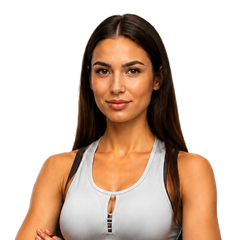
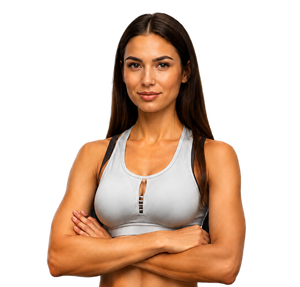
Переделана вкладка тренировок + новая иконка приложения
- Вкладка «Тренировки» полностью переделана в формат дашборда:
  герой-карточка (частота/кольцо минут/калории), прогресс по типам
  нагрузки (Сила/Кардио/Растяжка), «План на сегодня» с выделением
  рекомендуемого дня, сетка программ 2×1, карточка совета тренера.
- Добавлена новая фотография тренера (docs/img/trainer.png) с
  прозрачным фоном для карточки «Совет тренера».
- Обновлена иконка приложения (1024×1024) — исправляет иконку в
  всплывающем окне уведомления на iPhone.

Claude-Session: https://claude.ai/code/session_01UYbmgsXtXN39W69CKm24QF

diff --git a/docs/index.html b/docs/index.html
@@ -1380,7 +1380,7 @@ var workoutLocal=null;
 function initWorkoutLocal(){
   if(workoutLocal) return;
   workoutLocal={phase:state.workoutPlan?'view':'setup',goal:'похудение',focus:['ягодицы'],days:3,place:'дом',loading:false,variants:[],
-    wtab:'calendar',dayDetail:null,calSel:todayStr(),wedit:null,nagged:false};
+    wtab:'calendar',dayDetail:null,calSel:todayStr(),wedit:null,nagged:false,showCal:false,showProg:false};
 }
 function daySummary(ds,done,activities,wDays,weightKg,todayS){
   var a=ds.split('-').map(Number); var dw=dow(a[0],a[1],a[2]); var label=a[2]+' '+RU_MON[a[1]-1]+', '+RU_WD[dw];
@@ -1397,33 +1397,195 @@ function daySummary(ds,done,activities,wDays,weightKg,todayS){
   if(isPast&&wDays.includes(dw)) return {label:label,missed:true,text:'В этот день ты '+SEAL_JABS[a[2]%SEAL_JABS.length]};
   return {label:label,text:'В этот день ничего не записано.'};
 }
+/* ===== WORKOUT DASHBOARD ===== */
+function wDayType(day){var s=((day.title||'')+(day.ex||[]).join(' ')).toLowerCase().replace(/ё/g,'е');if(/кардио|бег\b|ходьб|прыж|скакалк|берпи|джампинг|интервал/.test(s))return'cardio';if(/растяжк|стретч|йога|пилатес|мобильн/.test(s))return'stretch';return'strength';}
+function wDayEmoji(day){var m=musclesForDay(day.ex||[]);if(m.includes('ягодицы'))return'🍑';if(m.includes('грудь'))return'💪';if(m.includes('спина'))return'🏋';if(m.includes('пресс'))return'⚡';var t=wDayType(day);if(t==='cardio')return'🏃';if(t==='stretch')return'🧘';return'💪';}
+function wDayMins(day){return Math.max(25,Math.min(60,10+(day.ex||[]).length*5));}
+function wDayKcal(day,wkg){return Math.round((wDayType(day)==='cardio'?8:5.5)*(wkg||60)*wDayMins(day)/60);}
+function todayPlanDayIdx(plan,wDays){if(!plan||!plan.days||!plan.days.length||!wDays||!wDays.length)return-1;var s=wDays.slice().sort(function(a,b){return a-b;});var p=s.indexOf(dowOf(new Date()));return p<0?-1:p%plan.days.length;}
+function weekWorkoutCount(workouts){var ws=weekStart();var today=new Date();today.setHours(0,0,0,0);return(workouts||[]).filter(function(w){var d=new Date(w.date);d.setHours(0,0,0,0);return d>=ws&&d<=today;}).length;}
+function workoutRingSVG(mins,maxMins,sz,sw){
+  sz=sz||134;sw=sw||14;maxMins=maxMins||60;
+  var pct=maxMins>0?Math.min(Math.max(mins/maxMins,0),1):0;
+  var rx=(sz-sw)/2,ry=rx*0.92;var visH=ry+sw;
+  var pad=22;var bW=sz+pad*2,bH=visH+pad*2;
+  var cx=pad+sz/2,cy=pad+ry+sw/2;
+  function ptAt(deg){var r=deg*Math.PI/180;return[cx+rx*Math.cos(r),cy+ry*Math.sin(r)];}
+  var p0=ptAt(180),p1=ptAt(360);
+  var d='M '+p0[0].toFixed(2)+' '+p0[1].toFixed(2)+' A '+rx.toFixed(2)+' '+ry.toFixed(2)+' 0 1 1 '+p1[0].toFixed(2)+' '+p1[1].toFixed(2);
+  var totalLen=0,prev=p0;
+  for(var i=1;i<=180;i++){var t=180+i;var p=ptAt(t);totalLen+=Math.hypot(p[0]-prev[0],p[1]-prev[1]);prev=p;}
+  var fLen=totalLen*pct;var gid='wrg'+sz,fid='wrf'+sz;
+  var nSz=Math.round(sz*(String(Math.round(mins)).length>=3?0.17:0.21));
+  return '<div class="ringWrap" style="width:'+sz+'px;height:'+visH+'px;margin:0 2px">'+
+    '<svg width="'+bW+'" height="'+bH+'" style="position:absolute;left:'+(-pad)+'px;top:'+(-pad)+'px">'+
+    '<defs><linearGradient id="'+gid+'" gradientUnits="userSpaceOnUse" x1="'+p0[0].toFixed(1)+'" y1="'+p0[1].toFixed(1)+'" x2="'+p1[0].toFixed(1)+'" y2="'+p1[1].toFixed(1)+'">'+
+    '<stop offset="0%" stop-color="#8B2FFF"/><stop offset="50%" stop-color="#EBD4FF"/><stop offset="100%" stop-color="#B968FF"/>'+
+    '</linearGradient><filter id="'+fid+'" x="-120%" y="-120%" width="340%" height="340%">'+
+    '<feGaussianBlur in="SourceGraphic" stdDeviation="11" result="wide"/><feGaussianBlur in="SourceGraphic" stdDeviation="4" result="mid"/>'+
+    '<feMerge><feMergeNode in="wide"/><feMergeNode in="mid"/><feMergeNode in="SourceGraphic"/></feMerge></filter></defs>'+
+    '<path d="'+d+'" fill="none" stroke="#262838" stroke-width="'+sw+'" stroke-linecap="round"/>'+
+    (pct>0?'<path class="ringGlow" d="'+d+'" fill="none" stroke="url(#'+gid+')" stroke-width="'+(sw+7)+'" stroke-linecap="round" stroke-dasharray="'+fLen.toFixed(1)+' '+(totalLen*2).toFixed(1)+'" filter="url(#'+fid+')" opacity="0.95"/>'+
+    '<path d="'+d+'" fill="none" stroke="url(#'+gid+')" stroke-width="'+sw+'" stroke-linecap="round" stroke-dasharray="'+fLen.toFixed(1)+' '+(totalLen*2).toFixed(1)+'"/>':'')+
+    '</svg>'+
+    '<div class="ringCenter" style="top:auto;bottom:0;height:'+Math.round(visH*0.78)+'px">'+
+    '<div style="font-size:'+nSz+'px;font-weight:800;color:#fff;letter-spacing:-1px;line-height:1">'+Math.round(mins)+'</div>'+
+    '<div style="font-size:'+Math.round(sz*0.07)+'px;color:rgba(255,255,255,.65);margin-top:3px;font-weight:700;line-height:1">мин</div>'+
+    '</div></div>';
+}
+function workoutDashboard(){
+  var plan=state.workoutPlan;var wl=workoutLocal;var wDays=state.workoutDays||[];
+  var wkg=latestWeight(state);var todayS=todayStr();var todayDow=dowOf(new Date());
+  var isWDay=wDays.includes(todayDow);
+  var didToday=(state.workouts||[]).some(function(w){return w.date===todayS;});
+  var burnedKcal=burnedToday(state,todayS,wkg);
+  var weekDone=weekWorkoutCount(state.workouts);var weekTarget=Math.max(wDays.length,1);
+  var coachMsg=workoutCoachMsg(state);
+  var tdIdx=todayPlanDayIdx(plan,wDays);var todayDay=tdIdx>=0&&plan&&plan.days?plan.days[tdIdx]:null;
+  var ringMins=0;
+  if(didToday){(state.workouts||[]).filter(function(w){return w.date===todayS;}).forEach(function(w){ringMins+=Math.max(20,Math.min(60,10+((w.sets||[]).length)*2.5));});ringMins=Math.round(Math.min(ringMins,90));}
+  else if(todayDay){ringMins=wDayMins(todayDay);}
+  var dots='<div style="display:flex;gap:5px;margin-top:8px">';
+  for(var i=0;i<Math.min(weekTarget,6);i++) dots+='<div style="width:10px;height:10px;border-radius:5px;background:'+(i<weekDone?'#8B5CF6':i===weekDone?'rgba(139,92,246,0.3)':'rgba(255,255,255,0.12)')+'"></div>';
+  dots+='</div>';
+  var hero='<div style="background:linear-gradient(145deg,#1e1640,#251c4a);border:1px solid rgba(139,92,246,0.3);border-radius:24px;padding:18px 14px 16px;margin-bottom:12px">'+
+    '<div style="display:flex;align-items:flex-start;justify-content:space-between;gap:4px">'+
+    '<div style="flex:0 0 auto;min-width:72px"><div style="font-size:20px;margin-bottom:4px">🏋</div>'+
+      '<div style="display:flex;align-items:baseline;gap:2px"><span style="font-size:30px;font-weight:900;color:#fff;line-height:1">'+weekTarget+'</span><span style="font-size:12px;color:rgba(255,255,255,0.55);font-weight:600"> / нед</span></div>'+
+      '<div style="color:rgba(255,255,255,0.45);font-size:11px;font-weight:600;margin-top:1px">неделя</div>'+dots+'</div>'+
+    '<div style="flex:1;display:flex;flex-direction:column;align-items:center;padding:0 2px">'+workoutRingSVG(ringMins,60,130,14)+
+      '<div style="color:rgba(255,255,255,0.45);font-size:10px;font-weight:600;letter-spacing:0.4px;margin-top:1px">тренировка</div>'+
+      '<div style="display:inline-block;background:rgba(139,92,246,0.3);color:#c4b5fd;font-size:10px;font-weight:700;padding:2px 10px;border-radius:999px;margin-top:4px">'+(didToday?'готово 💜':isWDay?'сегодня':'по плану')+'</div>'+
+    '</div>'+
+    '<div style="flex:0 0 auto;min-width:72px;text-align:right"><div style="font-size:20px;margin-bottom:4px">🔥</div>'+
+      '<div style="font-size:30px;font-weight:900;color:#fff;line-height:1">'+burnedKcal+'</div>'+
+      '<div style="color:rgba(255,255,255,0.45);font-size:11px;font-weight:600;margin-top:1px">ккал</div>'+
+      (burnedKcal>0?'<div style="color:#34d399;font-size:10px;font-weight:700;margin-top:4px">+'+burnedKcal+' ккал<br>к цели 🎯</div>':'<div style="color:rgba(255,255,255,0.22);font-size:10px;margin-top:6px">нет<br>нагрузки</div>')+
+    '</div></div></div>';
+  var coachBd=coachMsg.type==='warn'?'rgba(239,68,68,0.35)':coachMsg.type==='go'?'rgba(139,92,246,0.5)':'rgba(255,255,255,0.1)';
+  var coachBg=coachMsg.type==='warn'?'rgba(239,68,68,0.07)':coachMsg.type==='go'?'rgba(139,92,246,0.08)':'rgba(255,255,255,0.03)';
+  var coachCard='<div style="background:'+coachBg+';border:1px solid '+coachBd+';border-radius:20px;padding:14px;margin-bottom:12px;display:flex;align-items:center;gap:12px">'+
+    '<div style="width:38px;height:38px;border-radius:19px;background:rgba(139,92,246,0.2);display:flex;align-items:center;justify-content:center;flex-shrink:0;font-size:18px">💜</div>'+
+    '<div style="flex:1;min-width:0"><div style="color:#a78bfa;font-size:10px;font-weight:700;margin-bottom:3px;text-transform:uppercase;letter-spacing:0.5px">Совет тренера</div>'+
+    '<div style="font-size:13px;line-height:18px;color:rgba(255,255,255,0.85)">'+esc(coachMsg.text)+'</div></div>'+
+    '<img src="img/trainer.png" style="width:50px;height:50px;border-radius:25px;object-fit:cover;object-position:center top;border:2px solid rgba(139,92,246,0.4);flex-shrink:0" onerror="this.style.display=\'none\'">'+
+  '</div>';
+  var calToggle='<button style="width:100%;padding:11px 16px;border-radius:16px;border:1px solid rgba(255,255,255,0.08);background:rgba(255,255,255,0.03);color:rgba(255,255,255,0.5);font-size:12px;font-weight:600;display:flex;align-items:center;gap:8px;margin-bottom:8px" onclick="workoutLocal.showCal=!workoutLocal.showCal;render()">'+
+    '<span>📅 История тренировок</span><span style="margin-left:auto">'+(wl.showCal?'▲':'▼')+'</span></button>';
+  var calSection=wl.showCal?workoutCalendarSection():'';
+  return '<div class="body-pad">'+
+    '<div style="text-align:center;padding:10px 0 14px"><div style="font-size:22px;font-weight:900;color:#fff">Тренировки</div>'+
+    '<div style="font-size:13px;color:#8B5CF6;font-weight:700;margin-top:2px">Сегодня</div></div>'+
+    hero+workoutTypeProgressRow(plan)+workoutTodayPlanSection(plan,wDays,wkg,tdIdx)+
+    workoutProgramsSection(plan)+coachCard+workoutActivitySection()+calToggle+calSection+
+  '</div>';
+}
+function workoutTypeProgressRow(plan){
+  if(!plan||!plan.days||!plan.days.length) return'';
+  var sDays=plan.days.filter(function(d){return wDayType(d)==='strength';}).length;
+  var cDays=plan.days.filter(function(d){return wDayType(d)==='cardio';}).length;
+  var xDays=plan.days.filter(function(d){return wDayType(d)==='stretch';}).length;
+  var wk=todayStr().slice(0,7);
+  var monthWks=(state.workouts||[]).filter(function(w){return(w.date||'').startsWith(wk);});
+  var sDone=0,cDone=0,xDone=0;
+  monthWks.forEach(function(w){var day=(plan.days||[]).find(function(d){return d.title===w.title;})||plan.days[0];var t=day?wDayType(day):'strength';if(t==='strength')sDone++;else if(t==='cardio')cDone++;else xDone++;});
+  var cols=[];
+  if(sDays>0||(!cDays&&!xDays))cols.push({ico:'💪',label:'Сила',done:sDone,total:Math.max(sDays*4,plan.days.length)});
+  if(cDays>0)cols.push({ico:'💜',label:'Кардио',done:cDone,total:Math.max(cDays*4,1)});
+  if(xDays>0)cols.push({ico:'🧘',label:'Растяжка',done:xDone,total:Math.max(xDays*4,1)});
+  if(!cols.length)cols=[{ico:'💪',label:'Сила',done:sDone,total:Math.max(plan.days.length*4,4)}];
+  var items=cols.map(function(c){var pct=Math.min(1,c.total>0?c.done/c.total:0);
+    return'<div style="flex:1;min-width:0">'+
+      '<div style="display:flex;align-items:center;gap:5px;margin-bottom:5px"><span style="font-size:15px">'+c.ico+'</span><span style="font-size:12px;font-weight:700;color:rgba(255,255,255,0.8)">'+c.label+'</span></div>'+
+      '<div style="height:4px;border-radius:2px;background:rgba(255,255,255,0.1);overflow:hidden;margin-bottom:4px"><div style="height:100%;width:'+Math.round(pct*100)+'%;background:linear-gradient(90deg,#7C3AED,#B968FF);border-radius:2px"></div></div>'+
+      '<div style="font-size:10px;color:rgba(255,255,255,0.4);font-weight:600">'+c.done+' / '+c.total+' тренировок</div></div>';
+  }).join('');
+  return'<div style="background:rgba(255,255,255,0.04);border:1px solid rgba(255,255,255,0.08);border-radius:20px;padding:14px;margin-bottom:12px;display:flex;gap:14px">'+items+'</div>';
+}
+function workoutTodayPlanSection(plan,wDays,wkg,tdIdx){
+  if(!plan||!plan.days||!plan.days.length){
+    return'<div style="margin-bottom:12px"><div style="font-size:16px;font-weight:800;color:#fff;margin-bottom:10px">План на сегодня</div>'+
+      '<div style="background:rgba(139,92,246,0.07);border:1px dashed rgba(139,92,246,0.3);border-radius:16px;padding:20px;text-align:center">'+
+      '<div style="font-size:13px;color:rgba(255,255,255,0.5);margin-bottom:8px">Нет активной программы тренировок</div>'+
+      '<button class="btn" style="font-size:13px" onclick="workoutLocal.phase=\'setup\';render()">Подобрать программу 💜</button></div></div>';
+  }
+  var h='<div style="margin-bottom:12px">'+
+    '<div style="display:flex;align-items:center;justify-content:space-between;margin-bottom:10px">'+
+    '<div style="font-size:16px;font-weight:800;color:#fff">План на сегодня</div>'+
+    '<button onclick="workoutStartEdit()" style="display:flex;align-items:center;gap:4px;border:1px solid rgba(139,92,246,0.4);border-radius:999px;padding:5px 10px;background:rgba(139,92,246,0.1);color:#a78bfa;font-size:11px;font-weight:700"><span>📅</span> Изменить план</button></div>';
+  plan.days.forEach(function(day,di){
+    var isToday=di===tdIdx;
+    var mins=wDayMins(day);var kcal=wDayKcal(day,wkg);var emoji=wDayEmoji(day);
+    var bg=isToday?'rgba(139,92,246,0.15)':'rgba(255,255,255,0.03)';
+    var bd=isToday?'1px solid rgba(139,92,246,0.5)':'1px solid rgba(255,255,255,0.06)';
+    var arrBg=isToday?'#7C3AED':'rgba(255,255,255,0.1)';
+    h+='<button style="width:100%;background:'+bg+';border:'+bd+';border-radius:16px;padding:12px;margin-bottom:8px;display:flex;align-items:center;gap:10px;text-align:left" onclick="workoutLocal.dayDetail='+di+';render()">'+
+      '<div style="width:50px;height:50px;border-radius:14px;background:linear-gradient(135deg,rgba(139,92,246,0.4),rgba(109,40,217,0.6));display:flex;align-items:center;justify-content:center;font-size:22px;flex-shrink:0">'+emoji+'</div>'+
+      '<div style="flex:1;min-width:0"><div style="font-size:14px;font-weight:800;color:#fff;margin-bottom:3px">'+esc(tidyDayTitle(day.title,di))+'</div>'+
+      '<div style="display:flex;align-items:center;gap:8px"><span style="font-size:11px;color:rgba(255,255,255,0.45)">⏱ '+mins+' мин</span><span style="font-size:11px;color:rgba(255,255,255,0.45)">🔥 ~'+kcal+' ккал</span></div>'+
+      (isToday?'<div style="display:inline-block;background:rgba(139,92,246,0.25);color:#c4b5fd;font-size:10px;font-weight:700;padding:2px 8px;border-radius:999px;margin-top:4px">Рекомендуется сегодня</div>':'')+
+      '</div><div style="width:30px;height:30px;border-radius:15px;background:'+arrBg+';display:flex;align-items:center;justify-content:center;flex-shrink:0"><span style="color:#fff;font-weight:800;font-size:13px">→</span></div>'+
+    '</button>';
+  });
+  h+='<button class="btn mt4" style="width:100%" onclick="workoutOpenLog('+(tdIdx>=0?tdIdx:0)+')">💪 Записать тренировку</button></div>';
+  return h;
+}
+function workoutProgramsSection(plan){
+  if(!plan)return'';
+  var wDays=state.workoutDays||[];var since=state.workoutDaysSince;var now=new Date();
+  var totalDone=(state.workouts||[]).length;var totalExpected=0;
+  if(since){var s=new Date(since);s.setHours(0,0,0,0);var days=Math.max(0,Math.round((now-s)/86400000));totalExpected=Math.round(days/7*Math.max(wDays.length,1));}
+  var pct=totalExpected>0?Math.min(1,totalDone/totalExpected):0;
+  var planName=plan.name||'Моя программа';
+  var planIcon=/тонус|поддерж/i.test(planName)?'🌿':/набор|масс/i.test(planName)?'💪':/кардио|выносл/i.test(planName)?'🏃':'🏆';
+  var weeks=plan.days?Math.ceil(plan.days.length*4/Math.max(wDays.length,1)):8;
+  var level=totalDone>10?'3 ур.':totalDone>4?'2 ур.':'1 ур.';
+  return'<div style="margin-bottom:12px"><div style="font-size:16px;font-weight:800;color:#fff;margin-bottom:10px">Программы</div>'+
+    '<div style="display:flex;gap:8px">'+
+    '<div style="flex:1;background:rgba(255,255,255,0.04);border:1px solid rgba(255,255,255,0.08);border-radius:16px;padding:12px;cursor:pointer" onclick="workoutLocal.showProg=!workoutLocal.showProg;render()">'+
+      '<div style="display:flex;align-items:center;justify-content:space-between;margin-bottom:8px">'+
+      '<div style="width:34px;height:34px;border-radius:10px;background:rgba(139,92,246,0.2);display:flex;align-items:center;justify-content:center;font-size:17px">'+planIcon+'</div>'+
+      '<span style="color:rgba(255,255,255,0.4);font-size:16px">›</span></div>'+
+      '<div style="font-size:13px;font-weight:800;color:#fff;margin-bottom:2px">'+esc(planName)+'</div>'+
+      '<div style="font-size:11px;color:rgba(255,255,255,0.4);margin-bottom:8px">'+weeks+' нед • '+level+'</div>'+
+      '<div style="height:4px;border-radius:2px;background:rgba(255,255,255,0.1);overflow:hidden;margin-bottom:3px"><div style="height:100%;width:'+Math.round(pct*100)+'%;background:linear-gradient(90deg,#7C3AED,#B968FF)"></div></div>'+
+      '<div style="color:#8B5CF6;font-size:10px;font-weight:700;text-align:right">'+Math.round(pct*100)+'%</div>'+
+    '</div>'+
+    '<div style="flex:1;background:rgba(255,255,255,0.02);border:1px dashed rgba(255,255,255,0.08);border-radius:16px;padding:12px;display:flex;flex-direction:column;align-items:center;justify-content:center;gap:6px;cursor:pointer" onclick="workoutNewProgram()">'+
+      '<div style="width:34px;height:34px;border-radius:10px;background:rgba(255,255,255,0.06);display:flex;align-items:center;justify-content:center;font-size:18px">✨</div>'+
+      '<div style="font-size:11px;font-weight:700;color:rgba(255,255,255,0.35);text-align:center">Новая программа</div></div></div>'+
+    (workoutLocal.showProg?'<div class="card mt8">'+workoutProgram()+'</div>':'')+
+  '</div>';
+}
+function workoutCalendarSection(){
+  var wl=workoutLocal;var wDays=state.workoutDays||[];var weightKg=latestWeight(state);
+  var done=state.workouts;var burnedTotal=burnedToday(state,todayStr(),weightKg);
+  var activityDates=new Set((state.activities||[]).map(function(a){return a.date;}));
+  var h='<div class="card">'+workoutCalendarGrid(done,wDays,state.workoutDaysSince,activityDates,burnedTotal)+'</div>';
+  var calDay=daySummary(wl.calSel,done,state.activities||[],wDays,weightKg,todayStr());
+  h+='<div class="card"'+(calDay.missed?' style="border-color:var(--warn)"':'')+'><div style="display:flex;justify-content:space-between;align-items:center"><span style="color:var(--primary);font-weight:800">'+esc(calDay.label)+'</span>'+
+    (calDay.workout?'<span><button style="padding:8px" onclick="workoutEditDone(\''+calDay.workout.id+'\')">✏️</button><button style="padding:8px;color:var(--danger);font-weight:800" onclick="workoutDelDone(\''+calDay.workout.id+'\')">✕</button></span>':'')+'</div>'+
+    '<div style="font-size:14px;line-height:20px;margin-top:2px;white-space:pre-line;'+(calDay.missed?'color:var(--warn)':'')+'">'+esc(calDay.text)+'</div></div>';
+  return h;
+}
 function renderWorkout(){
   initWorkoutLocal();
-  var wl=workoutLocal; var plan=state.workoutPlan; var wDays=state.workoutDays||[];
-  var hero='<div class="hero" style="margin:0 0 12px"><div class="htitle">Тренировки</div></div>';
-  var h='<div class="body-pad">'+hero;
-  if(wl.phase==='setup') return h+workoutSetup()+'</div>';
-  if(wl.phase==='choose') return h+workoutChoose()+'</div>';
-  if(wl.phase==='edit') return h+workoutEditor()+'</div>';
-  // view
+  var wl=workoutLocal;var plan=state.workoutPlan;
+  if(wl.phase==='setup')return'<div class="body-pad"><div style="text-align:center;padding:10px 0 14px"><div style="font-size:22px;font-weight:900;color:#fff">Тренировки</div></div>'+workoutSetup()+'</div>';
+  if(wl.phase==='choose')return'<div class="body-pad"><div style="text-align:center;padding:10px 0 14px"><div style="font-size:22px;font-weight:900;color:#fff">Выбери программу</div></div>'+workoutChoose()+'</div>';
+  if(wl.phase==='edit')return'<div class="body-pad"><div style="text-align:center;padding:10px 0 14px"><div style="font-size:22px;font-weight:900;color:#fff">Редактор программы</div></div>'+workoutEditor()+'</div>';
   var dayD=wl.dayDetail!==null&&plan&&plan.days?plan.days[wl.dayDetail]:null;
   if(dayD){
-    h+='<button style="color:var(--primary);font-size:14px;font-weight:800;padding:4px 0" onclick="workoutLocal.dayDetail=null;render()">‹ Назад к программе</button>'+
-      '<div style="font-size:20px;font-weight:800;margin-bottom:8px">'+esc(tidyDayTitle(dayD.title,wl.dayDetail))+'</div>';
+    var h='<div class="body-pad"><button style="color:var(--primary);font-size:14px;font-weight:800;padding:4px 0" onclick="workoutLocal.dayDetail=null;render()">‹ Назад</button>'+
+      '<div style="font-size:20px;font-weight:800;margin:8px 0">'+esc(tidyDayTitle(dayD.title,wl.dayDetail))+'</div>';
     var mus=musclesForDay(dayD.ex);
-    if(mus.length) h+='<div class="chips" style="margin-bottom:8px">'+mus.map(function(x){return '<span style="background:var(--primaryDim);border-radius:999px;padding:3px 10px;color:var(--primary);font-size:12px;font-weight:700">'+x+'</span>';}).join('')+'</div>';
-    dayD.ex.forEach(function(e,i){ var p=parseExercise(e); var mm=Array.from(musclesForExercise(e));
-      h+='<div style="display:flex;align-items:center;gap:12px;padding:8px 0;border-bottom:1px solid var(--line)"><div style="width:34px;height:34px;border-radius:17px;background:var(--primaryDim);color:var(--primary);font-weight:800;display:flex;align-items:center;justify-content:center">'+(i+1)+'</div><div style="flex:1"><div style="font-size:15px;font-weight:700">'+esc(p.name)+'</div><div class="muted">'+(p.sets||'—')+'×'+(p.reps||'—')+(mm.length?' · '+mm.join(', '):'')+'</div></div></div>'; });
-    h+='<div class="row g8 mt16"><button class="btn ghost" style="flex:1" onclick="workoutStartEdit()">✏️ Изменить</button><button class="btn" style="flex:1.4" onclick="workoutOpenLog('+wl.dayDetail+')">Записать 💪</button></div>';
-    return h+'</div>';
+    if(mus.length)h+='<div class="chips" style="margin-bottom:8px">'+mus.map(function(x){return'<span style="background:var(--primaryDim);border-radius:999px;padding:3px 10px;color:var(--primary);font-size:12px;font-weight:700">'+x+'</span>';}).join('')+'</div>';
+    dayD.ex.forEach(function(e,i){var p=parseExercise(e);var mm=Array.from(musclesForExercise(e));
+      h+='<div style="display:flex;align-items:center;gap:12px;padding:8px 0;border-bottom:1px solid var(--line)"><div style="width:34px;height:34px;border-radius:17px;background:var(--primaryDim);color:var(--primary);font-weight:800;display:flex;align-items:center;justify-content:center">'+(i+1)+'</div><div style="flex:1"><div style="font-size:15px;font-weight:700">'+esc(p.name)+'</div><div class="muted">'+(p.sets||'—')+'×'+(p.reps||'—')+(mm.length?' · '+mm.join(', '):'')+'</div></div></div>';});
+    h+='<div class="row g8 mt16"><button class="btn ghost" style="flex:1" onclick="workoutStartEdit()">✏️ Изменить</button><button class="btn" style="flex:1.4" onclick="workoutOpenLog('+wl.dayDetail+')">Записать 💪</button></div></div>';
+    return h;
   }
-  // subtabs
-  h+='<div style="display:flex;background:var(--cardAlt);border-radius:999px;padding:3px;margin-bottom:12px">'+
-    [['calendar','Календарь'],['program','Программа'],['load','Нагрузка']].map(function(t){return '<button style="flex:1;padding:8px;border-radius:999px;font-size:13px;font-weight:700;'+(wl.wtab===t[0]?'background:var(--primary);color:#fff':'color:var(--textDim)')+'" onclick="workoutLocal.wtab=\''+t[0]+'\';render()">'+t[1]+'</button>';}).join('')+'</div>';
-  if(wl.wtab==='program') h+=workoutProgram();
-  else if(wl.wtab==='calendar') h+=workoutCalendarTab();
-  else if(wl.wtab==='load') h+=workoutActivitySection();
-  return h+'</div>';
+  return workoutDashboard();
 }
 function workoutSetup(){
   var wl=workoutLocal;